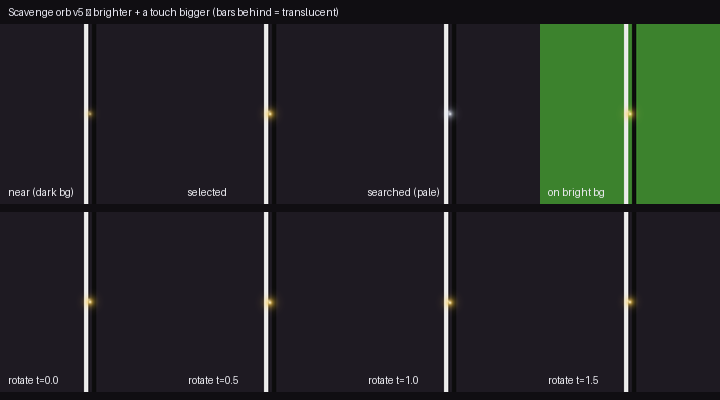
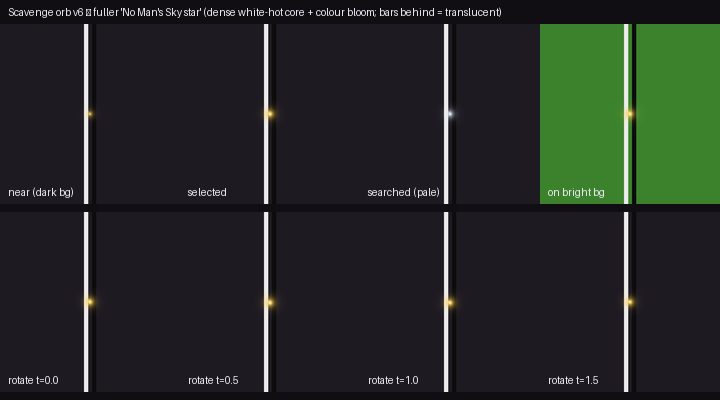
Scavenge/drop orb: fuller 'No Man's Sky galaxy-star' look
Rework the shared draw_orb build-up (interactable.gd, used by both scavenge
nodes and world_drop pickups) toward the owner's No Man's Sky galaxy-map star
reference: a broad soft outer bloom + mid bloom wrapping a saturated colour
body around a dense white-hot heart with a bright core pip, edges still
translucent so the background shows through. Bump the base radius range to
5.5..8.5.

Regenerate the PIL preview and update the CLAUDE.md status note. Also track
the drop_physics_test UID.

Claude-Session: https://claude.ai/code/session_018G5NCP3m9WbvqqpohXSrqQ

Changed region(s): [[0.1222, 0.0, 0.7028, 0.06]]

diff --git a/CLAUDE.md b/CLAUDE.md
@@ -713,16 +713,19 @@ means no rendering — UI layout and art still need an in-editor look.
 - Scavenge nodes = a glowing TRANSLUCENT orb (`interactable.gd`, replaced the old flat
   yellow/white `draw_circle`; iterated: v1 literal "mini sun" w/ flares+sunspots → too figurative;
   v2 concentric-disc shading → too big, giant halo, "Among Us visor"; v3 opaque baked sphere →
-  read as a solid marble/bead; **v4 = the keeper**): a small LUMINOUS orb built from soft radial
-  layers of the round cookie (`FL.light_texture()`, bright centre → transparent edge) — an outer
-  faint glow, a translucent BODY (~0.42 alpha so the background shows through), an inner luminance,
-  and a bright soft HEART (no hard rim; it's light you can see through, not a filled ball). A soft
+  read as a solid marble/bead; v4 = translucent glowing orb; **v6 = the keeper**, "fuller"):
+  a small LUMINOUS orb built from soft radial layers of the round cookie (`FL.light_texture()`,
+  bright centre → transparent edge), tuned to the look/weight/glow of a **No Man's Sky galaxy-map
+  star** (owner's reference): a broad soft outer bloom (r×2.3 @0.16) + mid bloom (r×1.45 @0.30)
+  wrapping a SATURATED colour body (r×1.05 @0.66, r×0.62 @0.85) around a DENSE white-hot HEART
+  (r×0.42 @1.0) with a bright core pip (r×0.20 @1.0) — a solid glowing centre inside a coloured
+  halo, edges still translucent so the background shows through (not a filled disc). A soft
   drifting glint gives shine + a gentle-rotation cue, a small bob gives weight, and a MODEST real
-  PointLight2D (`energy ~0.45×lvl`, `texture_scale ~0.05`) gives presence without flooding the
+  PointLight2D (`energy ~0.6×lvl`, `texture_scale ~0.06–0.10`) gives presence without flooding the
   room. **GOLDEN** while it holds an untaken item you HAVEN'T searched; once **SEARCHED-but-not-
   emptied** it turns **pale WHITE/colourless** (`GOLD`/`PALE` palettes = a `body` tint +
   `spec`/`glow`/`light` accents; the light colour swaps too) — drained but still glowing + distinct.
-  Radius small (`lerpf(4.5, 7.0, lvl)`); size/brightness/light scale with proximity (faint at the
+  Radius small (`lerpf(5.5, 8.5, lvl)`); size/brightness/light scale with proximity (faint at the
   glow edge → bright near → hottest when selected); light is 0 out of scavenge mode or range.
   `TEXTURE_FILTER_LINEAR` keeps the scaled cookie smooth. The LOOK can't be verified headless (PIL
   approximation: `docs/art_reference/scavenge_node_preview.png`); the light/weight + gold→pale
